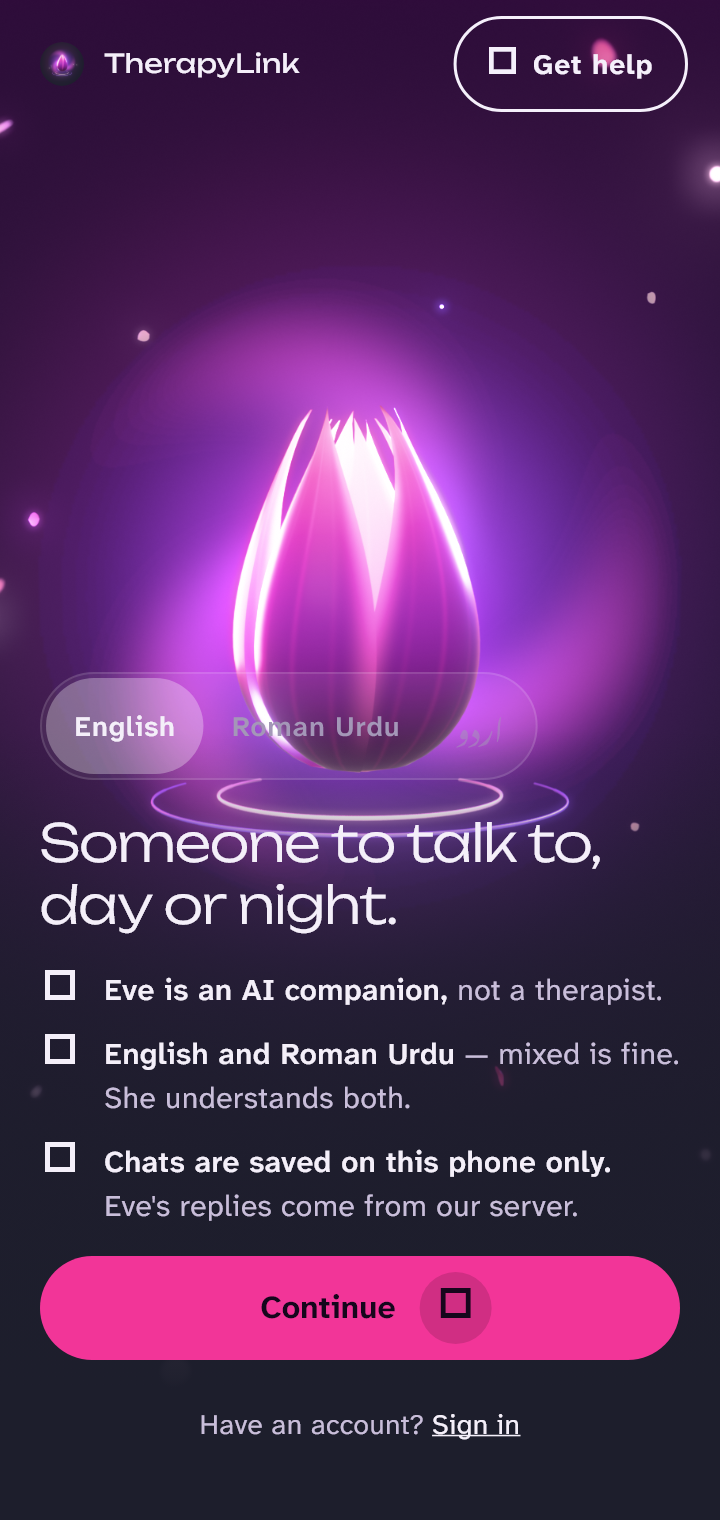
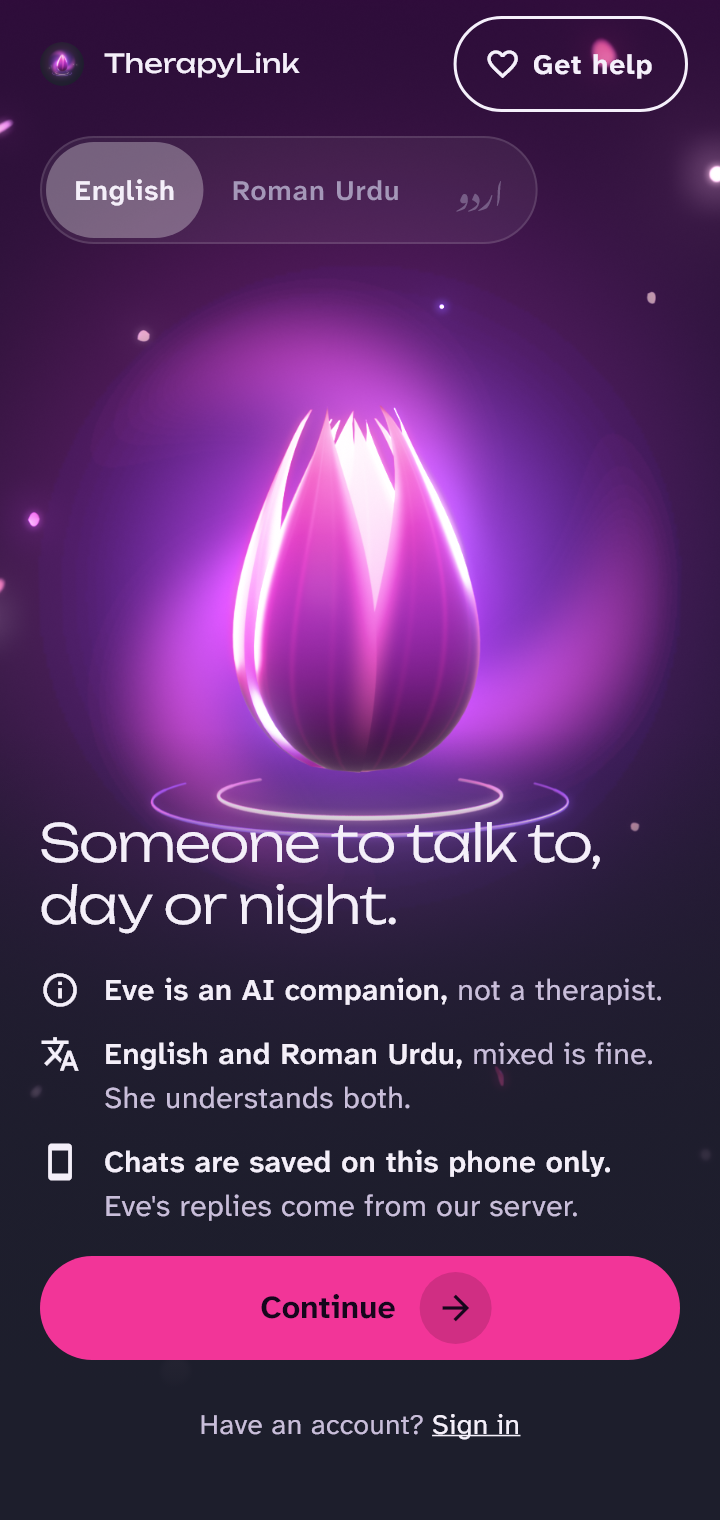
Load MaterialIcons font in golden test, regenerate baseline PNGs

diff --git a/app/test/screens_onboarding_review_test.dart b/app/test/screens_onboarding_review_test.dart
@@ -29,9 +29,18 @@ import 'package:therapylink/l10n/app_localizations.dart';
 // Helpers
 // ---------------------------------------------------------------------------
 
-/// Load all Jugnu bundled fonts so text renders correctly in goldens.
+/// Load all Jugnu bundled fonts AND icon fonts so text and icons render
+/// correctly in goldens.
+///
+/// Absolute paths are used for fonts that live outside the project:
+/// - MaterialIcons: from the Flutter SDK cache (sign-in visibility toggle
+///   and any direct Icon() with a Material IconData).
+/// - Phosphor (Regular + Fill): from the pub cache; these back [JugnuIcons].
+///   The pub cache path is machine-specific; that is acceptable for a local
+///   design-review test -- this file is not a CI gate.
 Future<void> _loadFonts() async {
-  final fontSpecs = <String, List<String>>{
+  // Project fonts (paths relative to app/ working directory).
+  final projectFontSpecs = <String, List<String>>{
     'Unbounded': ['assets/fonts/Unbounded/Unbounded[wght].ttf'],
     'AtkinsonHyperlegibleNext': [
       'assets/fonts/AtkinsonHyperlegibleNext/AtkinsonHyperlegibleNext[wght].ttf',
@@ -44,13 +53,43 @@ Future<void> _loadFonts() async {
     ],
   };
 
-  for (final entry in fontSpecs.entries) {
+  for (final entry in projectFontSpecs.entries) {
     final loader = FontLoader(entry.key);
     for (final path in entry.value) {
       loader.addFont(
         File(path).readAsBytes().then((bytes) => ByteData.view(bytes.buffer)),
       );
     }
+    await loader.load();
+  }
+
+  // Material icons font -- needed for Icons.xxx used directly in widgets
+  // (e.g. visibility toggle in the sign-in password field).
+  final materialLoader = FontLoader('MaterialIcons');
+  materialLoader.addFont(
+    File(
+      'D:/dev/flutter/bin/cache/artifacts/material_fonts/materialicons-regular.otf',
+    ).readAsBytes().then((bytes) => ByteData.view(bytes.buffer)),
+  );
+  await materialLoader.load();
+
+  // Phosphor icon fonts -- JugnuIcons constants are PhosphorFlatIconData
+  // backed by these two families (regular weight + fill weight).
+  // Paths point to the resolved pub cache entry; update if the version bumps.
+  const kPhosphorBase =
+      'C:/Users/azama/AppData/Local/Pub/Cache/hosted/pub.dev'
+      '/phosphor_flutter-2.1.0/lib/fonts';
+
+  for (final entry in <String, String>{
+    'PhosphorRegular': '$kPhosphorBase/Phosphor.ttf',
+    'PhosphorFill': '$kPhosphorBase/Phosphor-Fill.ttf',
+  }.entries) {
+    final loader = FontLoader(entry.key);
+    loader.addFont(
+      File(entry.value)
+          .readAsBytes()
+          .then((bytes) => ByteData.view(bytes.buffer)),
+    );
     await loader.load();
   }
 }
